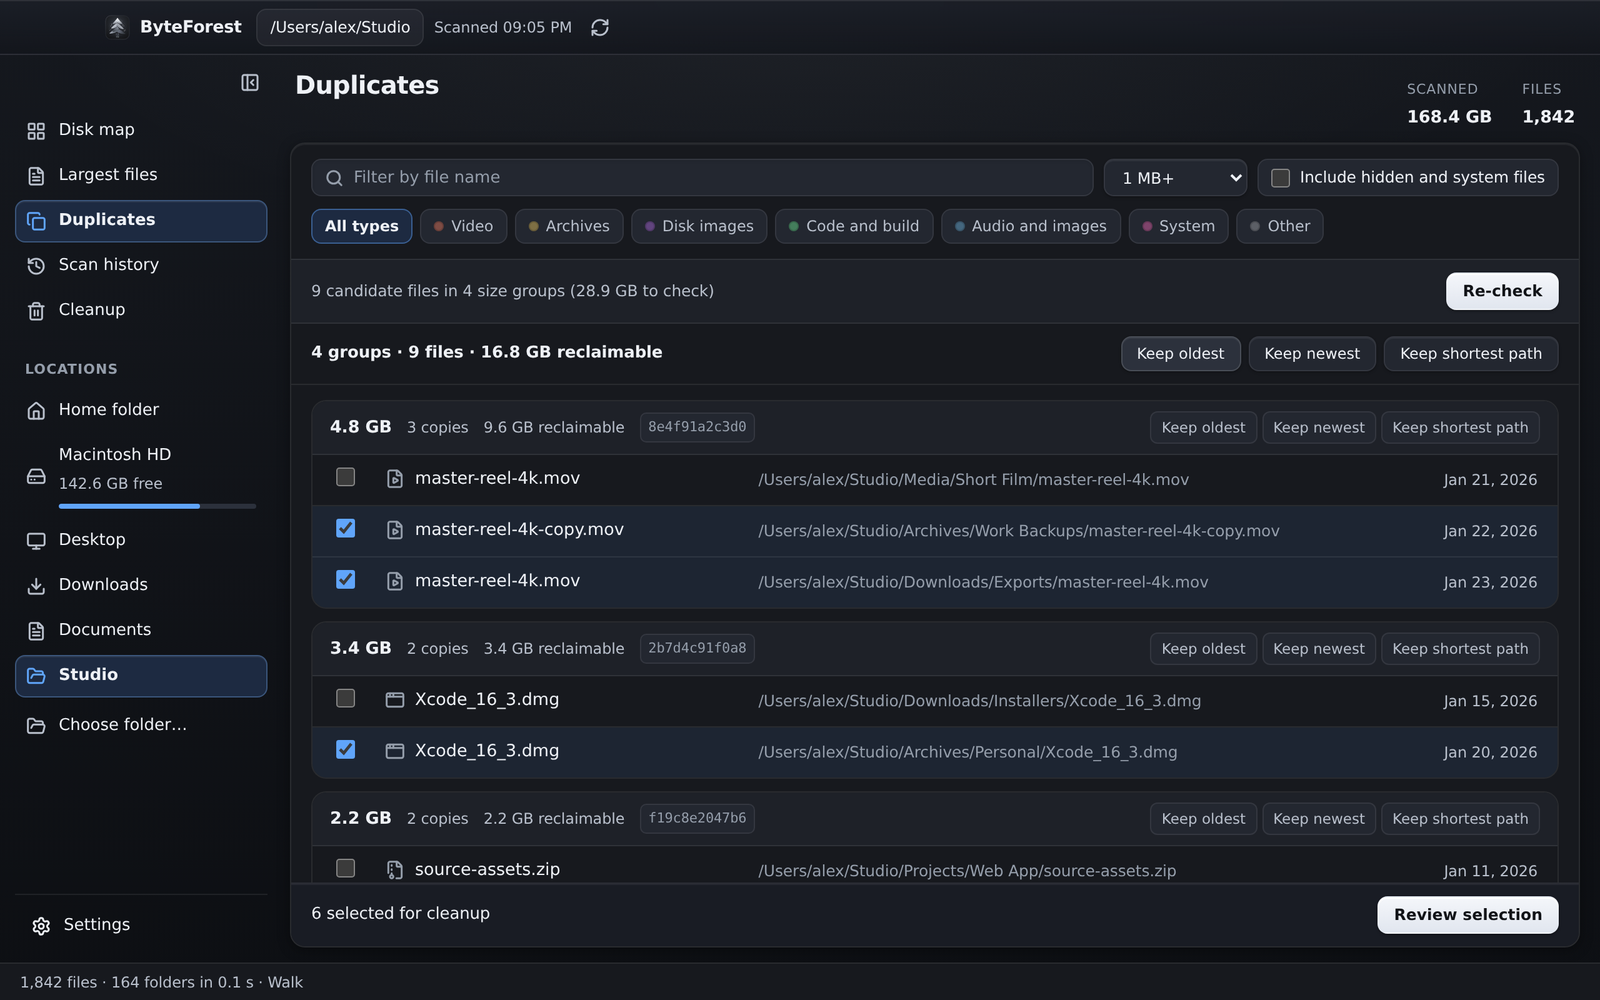
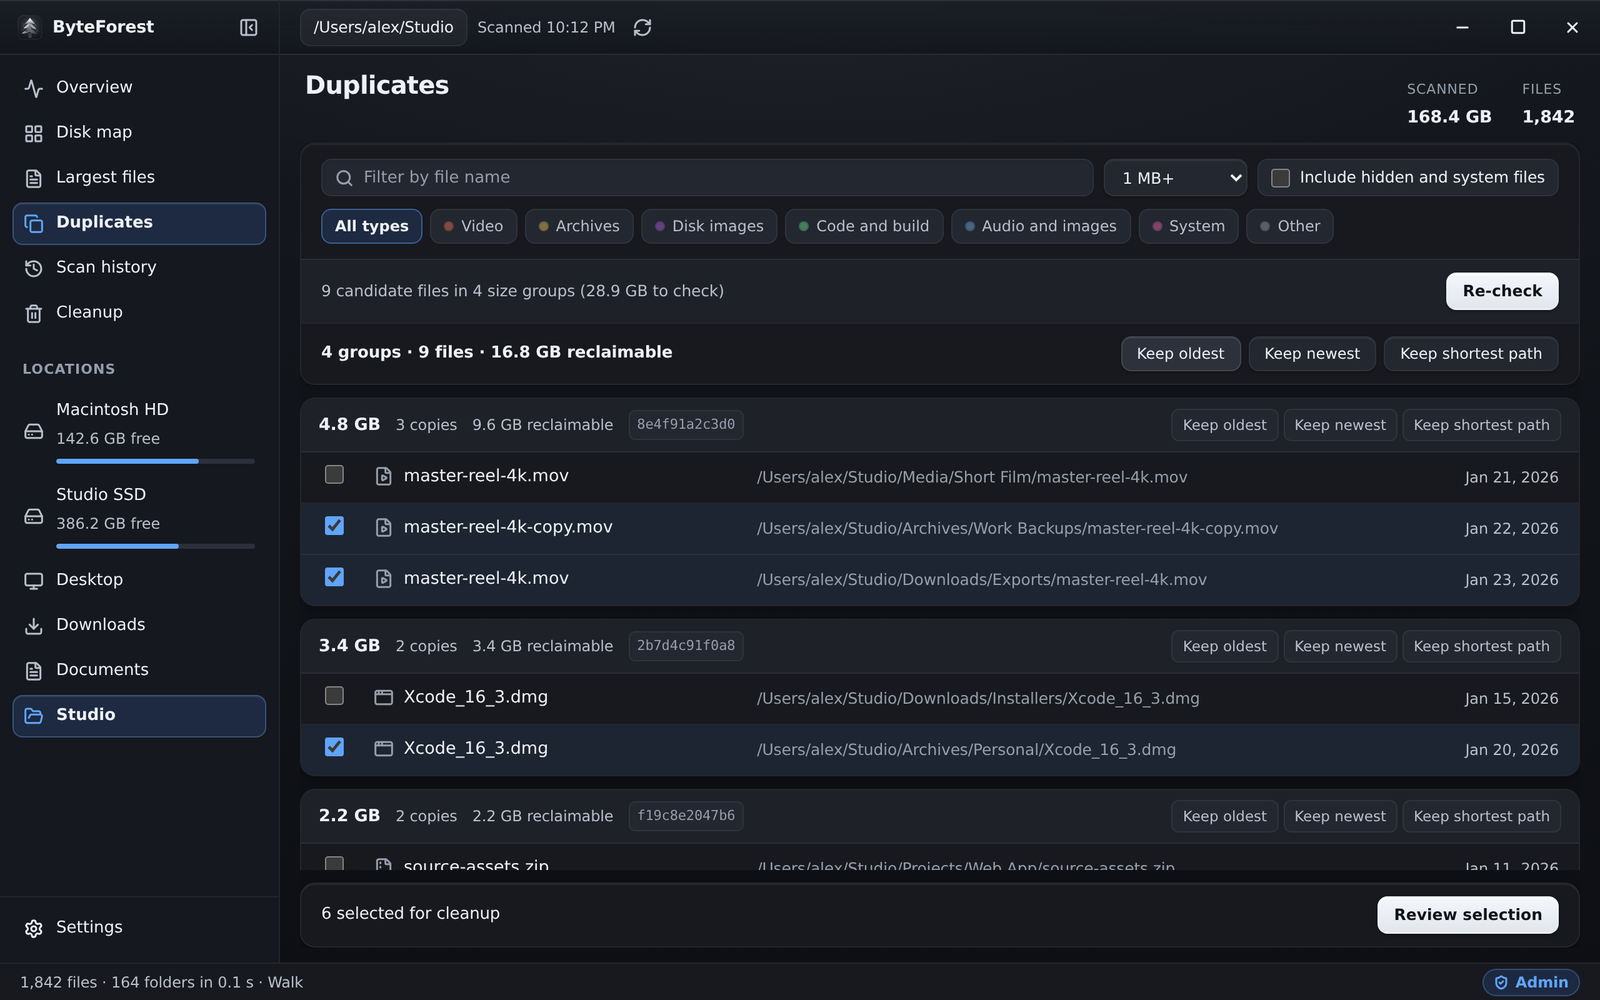
docs: add Overview screenshot and refresh README and CHANGELOG

diff --git a/CHANGELOG.md b/CHANGELOG.md
@@ -6,6 +6,10 @@ The format is based on [Keep a Changelog](https://keepachangelog.com/en/1.1.0/),
 
 ## [Unreleased]
 
+- Lightweight **Overview** dashboard tab (and default landing screen before scanning): live radial progress rings for CPU, memory, and clickable drives (click any drive ring to start scanning immediately), side-by-side 60-second inline SVG area-sparklines for CPU and memory usage, and a Top Processes by Memory list with RAM and CPU readouts. Powered by a single reusable lazy `sysinfo` sampler in the Rust backend and polled every 2 seconds only while the Overview tab is mounted and the window is visible — zero background CPU overhead when inactive.
+
+- Unified sidebar chrome and uniform border polish: moved the ByteForest mark and title into a full-height left sidebar aligned with the collapse toggle, simplified the right-pane top bar to the current scan path pill, timestamp, rescan button, and window controls, eliminated nested box-inside-box card framing across **Largest files**, **Duplicates**, and **Cleanup**, made cache preset and category strips clean single-row scrollable bars, and refined bottom status bar and sticky selection bar blending.
+
 - Signature Obsidian-Graphite (dark) and Frosted-Silver (light) visual redesign inspired by the ByteForest pine mark: frosted platinum / deep graphite primary buttons, calm steel-blue selection and focus accents (WCAG AA verified), restrained frosted glass on floating chrome, tooltips, menus, modals, segmented controls, and Inspector/Cleanup cards while keeping main tables, folder tree, and disk map canvas 100% opaque, translucent `Details` and `File types` Inspector cards with bottom-anchored actions, slim cache/space-hog preset pills in **Largest files**, and aligned obsidian-silver styling in **Duplicates**.
 
 - Duplicate Finder: find exact duplicate files from the **Duplicates** view in the sidebar or "Find duplicates here" on any folder. Estimates candidates instantly in memory, verifies matches in three steps (size → partial hash → full BLAKE3 on a bounded I/O thread pool) while skipping hardlinks, reparse points and cloud placeholders, and supports an optional hidden/system file toggle, category/size/name filters, auto-select presets (Keep oldest, Keep newest, Keep shortest path) with an all-copies-queued warning, cached results that prune automatically after cleanup, and direct Cleanup queue integration. The CLI gets `byteforest dupes <target>` with `--min-size`, `--top`, `--exclude`, `--include-hidden` and `--json`.

diff --git a/README.md b/README.md
@@ -16,13 +16,14 @@
   <img alt="Platform: macOS 15+ beta" src="https://img.shields.io/badge/macOS-15%2B%20beta-444444">
 </p>
 
-## Your first scan
+## System Overview and your first scan
 
 1. [Download ByteForest](https://github.com/ErnarIT12/ByteForest/releases).
-2. Choose **Choose folder…** to scan one folder, or **Scan drive** to explore the selected drive.
-3. Double-click a folder on the map to explore it. Use the breadcrumbs to return.
+2. ByteForest opens on the lightweight **Overview** dashboard with live CPU, memory, clickable drive usage rings, 60-second CPU/RAM sparklines, and top processes by memory (sampled only while visible, with zero background CPU usage when inactive).
+3. Click any drive ring, press **Scan drive**, or choose **Choose folder…** to scan a folder.
+4. Double-click a folder on the map to explore it. Use the breadcrumbs to return.
 
-![First scan on Windows](docs/screenshots/windows-first-scan.png)
+![ByteForest Overview dashboard in Graphite](docs/screenshots/overview-graphite.png)
 
 ## Largest files
 
@@ -78,7 +79,7 @@ These are single-machine numbers, not a formal benchmark; measure your own with 
 
 ## Minimalist UI and 100% offline privacy
 
-- **Signature obsidian-graphite and frosted-silver interface** inspired by the ByteForest pine mark, with restrained translucent glass on floating chrome and inspector cards, opaque high-contrast tables and maps, and a collapsible left sidebar.
+- **Signature obsidian-graphite and frosted-silver interface** inspired by the ByteForest pine mark, with a unified full-height collapsible left sidebar, minimal top bar, restrained translucent glass on floating chrome and inspector cards, and opaque high-contrast tables and maps.
 - **Graphite (dark, the default) and Silver (light) themes**, or follow the system, with WCAG AA contrast. Hover effects and transitions respect the reduced-motion setting.
 - **Works fully offline.** There is no telemetry, no account and no update check, and the code makes no network requests. The app window may only talk to the local Rust backend; the Content Security Policy allows nothing else.
 - **Your data stays on your machine.** Settings are stored in `%APPDATA%\ByteForest\settings.json` and logs in `%LOCALAPPDATA%\ByteForest\logs`. Automatic snapshots (names and sizes of scanned items) are stored in `%LOCALAPPDATA%\dev.byteforest.app\snapshots\auto` (`~/Library/Application Support/dev.byteforest.app/snapshots/auto` on macOS) and can be turned off or limited in Settings.
